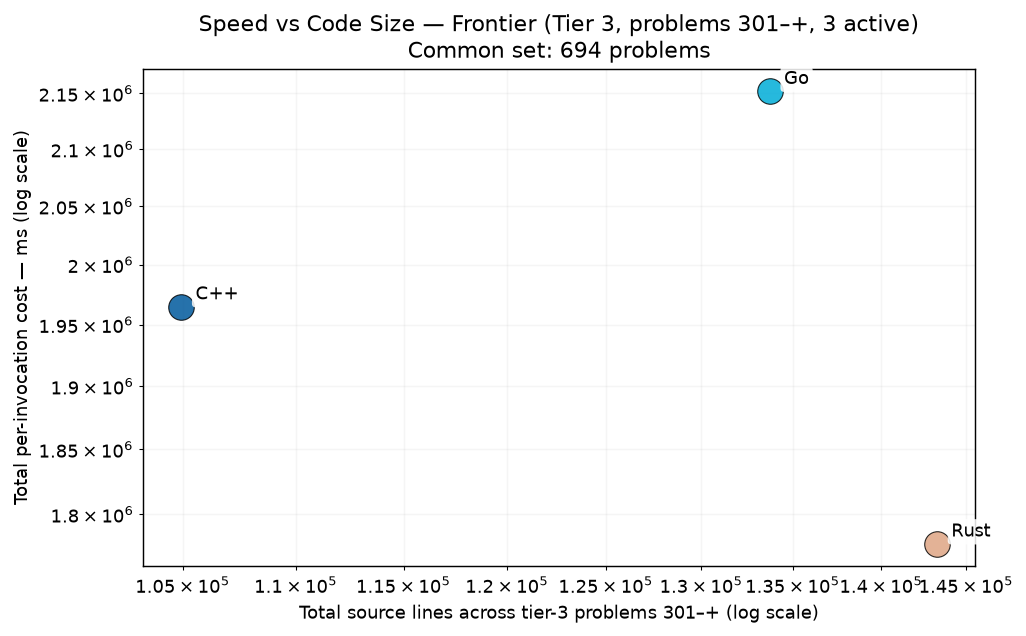
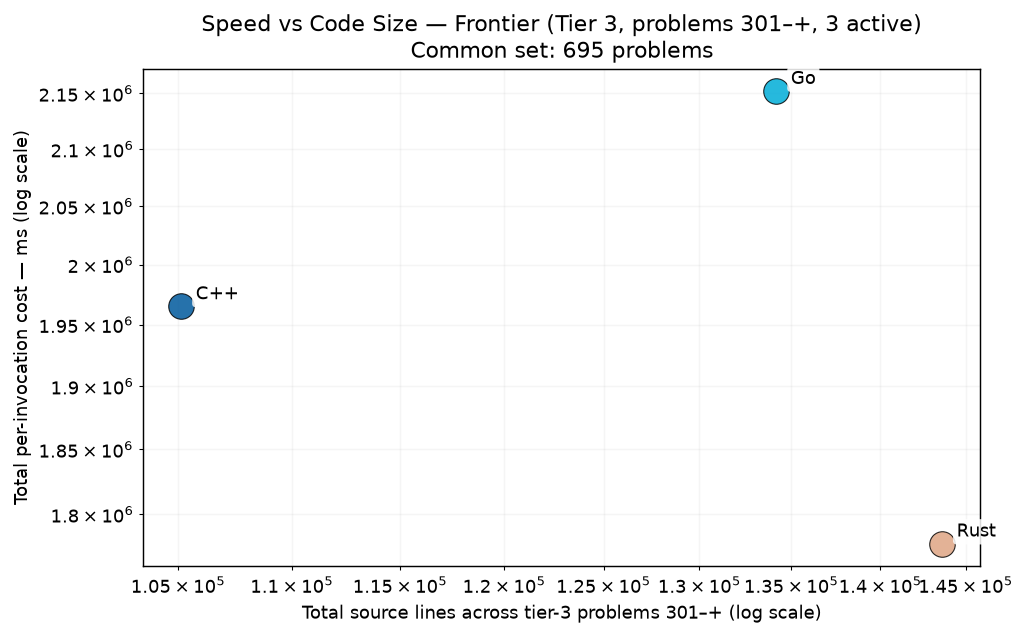
cpp p0970

diff --git a/RESULTS.md b/RESULTS.md
@@ -1,6 +1,6 @@
 # Project Euler — Cross-Language Benchmarks
 
-> **Scope: 4521 in-scope cells across 1007 problems × tiered languages — 4492 measured (99.4% coverage).**
+> **Scope: 4521 in-scope cells across 1007 problems × tiered languages — 4493 measured (99.4% coverage).**
 > The cross-language ranking below is computed over the **200-problem common set** (problems in 1-200 where every language has a passing measurement) — the apples-to-apples Foundation comparison surface.  Per-tier rankings and coverage detail appear further below.
 > Growing carefully — each new problem and language is audited for state-leak
 > safety, verified for answer correctness, and added only when it cleanly fits the
@@ -70,15 +70,15 @@ Same scatter as the Foundation chart, restricted to the tier-2 active languages 
 
 The frontier verification trio — C++, Go, Rust — on problems above 300. 3-way cross-language agreement is the verification protocol (strictly stronger than 2-way; see JOURNEY.md "Tier Reframing" episode for the p254 lesson that motivated it). Python and Zig are explicitly out of this tier — python's wall cost makes it impractical at level 5+, and zig's role caps at Tier 2.
 
-### Per-Invocation Cost (Common Set, 694 of ≤707 problems in scope)
+### Per-Invocation Cost (Common Set, 695 of ≤707 problems in scope)
 
 ![Per-Invocation Cost — Tier 3](charts/per_iter_total_tier3.png)
 
-| Rank | Language | Geomean (694-problem common set) | Total (sum) | Lines of code | vs Fastest |
+| Rank | Language | Geomean (695-problem common set) | Total (sum) | Lines of code | vs Fastest |
 |------|----------|--------------------:|------------:|--------------:|-----------:|
-| 1 | **Rust** | 76.80 ms | 1777.66 s | 143,266 | 1.00× |
-| 2 | **C++** | 80.57 ms | 1964.84 s | 104,928 | 1.05× |
-| 3 | **Go** | 89.44 ms | 2151.85 s | 133,724 | 1.16× |
+| 1 | **Rust** | 76.09 ms | 1777.66 s | 143,606 | 1.00× |
+| 2 | **C++** | 80.52 ms | 1964.89 s | 105,130 | 1.06× |
+| 3 | **Go** | 89.11 ms | 2151.86 s | 134,170 | 1.17× |
 
 ### Speed vs Code Size
 
@@ -264,7 +264,7 @@ table never silently mixes versions (METHODOLOGY.md §4).  Current state of the
 |----------|-----------|------:|---------------|
 | **ARM64** | `Apple clang version 21.0.0 (clang-2100.1.1.101)` | 200 | 2026-07-30 |
 | **C** | `Apple clang version 21.0.0 (clang-2100.1.1.101)` | 200 | 2026-07-30 |
-| **C++** | `Apple clang version 21.0.0 (clang-2100.1.1.101)` | 994 | 2026-09-08 |
+| **C++** | `Apple clang version 21.0.0 (clang-2100.1.1.101)` | 995 | 2026-09-08 |
 | **C#** | `10.0.101` | 200 | 2026-07-30 |
 | **Go** | `go version go1.26.5 darwin/arm64` | 996 | 2026-09-08 |
 | **Java** | `openjdk version "21.0.2" 2024-01-16 LTS` | 200 | 2026-07-30 |

diff --git a/per_problem/per_problem_0901-1000.md b/per_problem/per_problem_0901-1000.md
@@ -77,7 +77,7 @@ in tier-1 display order (native → managed → interpreted).
 | **p0967** | 356.64 ms | 266.93 ms | 470.80 ms |
 | **p0968** | 1.32 s | 29.89 ms | 10.20 ms |
 | **p0969** | 78.8 µs | 78.5 µs | 102.2 µs |
-| **p0970** | — | 119.2 µs | 7.04 ms |
+| **p0970** | 52.04 ms | 119.2 µs | 7.04 ms |
 | **p0971** | 3.28 s | 1.54 s | 1.60 s |
 | **p0972** | 1.84 s | 2.49 s | 2.54 s |
 | **p0973** | — | 885.6 µs | — |
